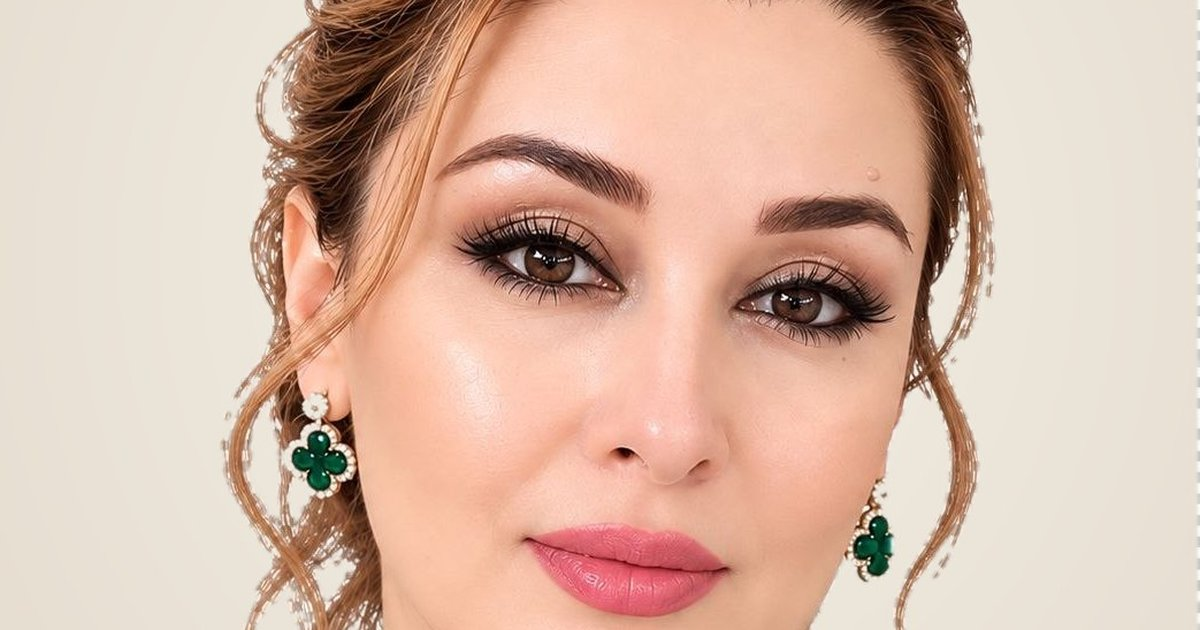
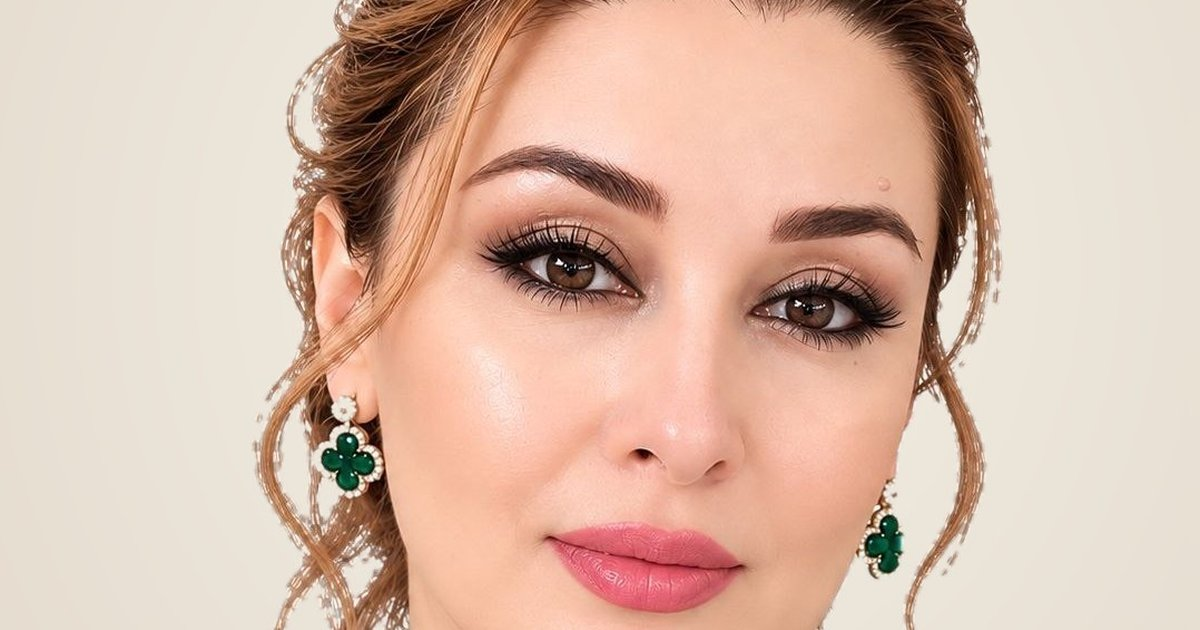
Portret: soch tepasi tiklandi, yuqorida bo'sh joy qoldirildi

diff --git a/index.html b/index.html
@@ -106,7 +106,7 @@
 
         <figure class="hero-figure reveal">
           <!-- Portretni almashtirish uchun images/portrait.jpg faylini yangisiga almashtiring (4:5 nisbat) -->
-          <img src="images/portrait.jpg?v=4" alt="Go‘zal Miraliyevna Bahromova portreti" width="1043" height="1304" fetchpriority="high">
+          <img src="images/portrait.jpg?v=5" alt="Go‘zal Miraliyevna Bahromova portreti" width="1078" height="1348" fetchpriority="high">
           <span class="frame-corner tl" aria-hidden="true"></span>
           <span class="frame-corner br" aria-hidden="true"></span>
         </figure>
